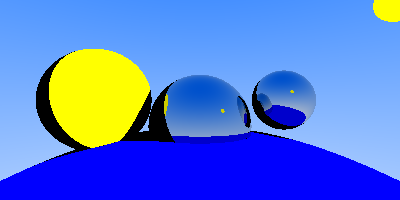
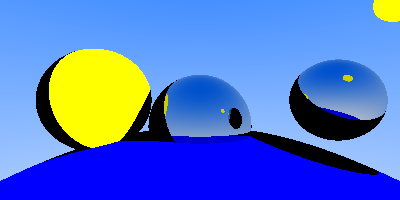
Reorganized the code structure a bit.

Changed region(s): [[0.57, 0.3, 0.99, 0.87]]

diff --git a/classes.py b/classes.py
@@ -1,6 +1,91 @@
 import math
 import numpy as np
 import helpers
+import random as rnd
+
+class Renderer():
+    def __init__(self, camera, scene, settings):
+        self.cam = camera
+        self.scene = scene
+        
+        self.hard_shadows = settings["hard_shadows"]
+        self.reflection = settings["reflection"]
+        self.lambert = settings["lambert"]
+
+    def render(self, num_rays=25):
+        pixel_array = self.cam.get_pixel_array()
+
+        # iterate over all pixels
+        for screen_y, world_y in enumerate(np.linspace(-1 * self.cam.screen_ratio, 1 * self.cam.screen_ratio, self.cam.y_res)):
+            for screen_x, world_x in enumerate(np.linspace(-1, 1, self.cam.x_res)):
+                col = Vec3(0,0,0)
+                
+                # shoot multiple rays within pixel
+                for _ in range(num_rays):
+                    if num_rays > 1:
+                        ray_x = world_x + rnd.uniform(0,1) * self.cam.x_step
+                        ray_y = world_y + rnd.uniform(0,1) * self.cam.y_step
+                    else:
+                        ray_x = world_x
+                        ray_y = world_y
+
+                    # shoot ray through pixel
+                    ray = Ray(Vec3(0,0,0), Vec3(ray_x, ray_y, -1))
+
+                    col += self.trace(ray)
+
+                # calculate the average pixel color
+                col /= num_rays
+                pixel_array[self.cam.y_res - 1 - screen_y][screen_x] = col.get_rgb()
+        return pixel_array
+
+    def trace(self, ray, num_bounces=0):
+        num_bounces += 1
+        if num_bounces > 4:
+            return helpers.color(ray)
+
+        # check for hits and get hits with lowest ray parameter
+        hit_result = ray.get_intersection(self.scene.scene_objects)
+
+        # if there was a hit draw it, else draw background
+        if hit_result:
+            hit_point = ray.get_point(hit_result[0])
+            hit_normal = hit_result[1].get_normal(hit_point)
+            ray_origin = hit_point + hit_normal * 0.001
+            light = self.scene.lights[0]
+
+            # hard shadows
+            if self.hard_shadows:
+                if self.get_hard_shadow(ray_origin, light):
+                    return Vec3(0,0,0)
+            
+            # reflection
+            if self.reflection and hit_result[1].reflect:
+                reflect_ray = self.get_reflected_ray(ray_origin, ray.direction, hit_normal)
+                return self.trace(reflect_ray, num_bounces=num_bounces) * 0.8
+
+            # return color of object
+            return hit_result[1].color_vector
+        elif ray.hit_sphere(self.scene.lights[0].render_sphere):
+            # draw the light
+            return Vec3(1,1,0)
+        else:
+            # draw the background
+            return helpers.color(ray)
+
+    def get_hard_shadow(self, shadow_origin, light):
+        shadow_direction = (light.position - shadow_origin).get_unit()
+        shadow_ray = Ray(shadow_origin, shadow_direction)
+        shadow_result = shadow_ray.get_intersection(self.scene.scene_objects, any_hit=True)
+
+        if shadow_result:
+            return Vec3(0,0,0)
+        return None
+
+    def get_reflected_ray(self, reflect_origin, incident_direction, hit_normal):
+        reflect_direction = incident_direction - hit_normal * 2 * hit_normal.dot(incident_direction)
+        return Ray(reflect_origin, reflect_direction)
+
 
 class Camera():
     def __init__(self, x_res, y_res):
@@ -41,47 +126,6 @@ class Ray():
             return min_t, min_object
         else:
             return None
-
-    def trace(self, scene, num_bounces=0):
-        num_bounces += 1
-        if num_bounces > 4:
-            return helpers.color(self)
-
-        # check for hits and get hits with lowest ray parameter
-        hit_result = self.get_intersection(scene.scene_objects)
-
-        # if there was a hit draw it, else draw background
-        if hit_result:
-            hit_point = self.get_point(hit_result[0])
-            hit_normal = hit_result[1].get_normal(hit_point)
-
-            # trace shadow ray
-            shadow_origin = hit_point + hit_normal * 0.001
-            shadow_direction = (scene.lights[0].position - shadow_origin).get_unit()
-            shadow_ray = Ray(shadow_origin, shadow_direction)
-            shadow_result = shadow_ray.get_intersection(scene.scene_objects, any_hit=True)
-            
-            # hit is in shadow
-            if shadow_result:
-                # col = shadow_result[1].color_vector
-                return Vec3(0,0,0)
-            
-            # hit surface is reflective
-            if hit_result[1].reflect:
-                reflect_origin = shadow_origin
-                reflect_direction = self.direction - hit_normal * 2 * hit_normal.dot(self.direction)
-                reflect_ray = Ray(reflect_origin, reflect_direction)
-                return reflect_ray.trace(scene, num_bounces=num_bounces) * 0.8
-                # return Vec3(1,1,1)
-
-            # return color of object
-            return hit_result[1].color_vector
-        elif self.hit_sphere(scene.lights[0].render_sphere):
-            # draw the light
-            return Vec3(1,1,0)
-        else:
-            # draw the background
-            return helpers.color(self)
 
     def hit_sphere(self, sphere, t_min=0, t_max=50):
         # notes:

diff --git a/rt.py b/rt.py
@@ -6,40 +6,11 @@ from classes import *
 from helpers import *
 import time
 
-def render(scene, cam=Camera(200, 100), num_rays=25):
-    pixel_array = cam.get_pixel_array()
-
-    # iterate over all pixels
-    for screen_y, world_y in enumerate(np.linspace(-1 * cam.screen_ratio, 1 * cam.screen_ratio, cam.y_res)):
-        for screen_x, world_x in enumerate(np.linspace(-1, 1, cam.x_res)):
-            col = Vec3(0,0,0)
-            
-            # shoot multiple rays within pixel
-            for i in range(num_rays):
-                if num_rays > 1:
-                    ray_x = world_x + rnd.uniform(0,1) * cam.x_step
-                    ray_y = world_y + rnd.uniform(0,1) * cam.y_step
-                else:
-                    ray_x = world_x
-                    ray_y = world_y
-
-                # shoot ray through pixel
-                ray = Ray(Vec3(0,0,0), Vec3(ray_x, ray_y, -1))
-
-                col += ray.trace(scene)
-
-            # calculate the average pixel color
-            col /= num_rays
-            pixel_array[cam.y_res - 1 - screen_y][screen_x] = col.get_rgb()
-    return pixel_array
-
 def main():
     total_start = time.time()
 
     # set resolution and create pixel array
-    camera = Camera(400, 200)
-
-    for i, angle in enumerate(np.linspace(0,math.pi*4,12)):
+    for i, angle in enumerate(np.linspace(0,math.pi*4,6)):
         start_time = time.time()
 
         red_x = math.cos(angle)
@@ -54,11 +25,19 @@ def main():
         # scene.add_scene_object(Sphere(Vec3(.75,0,-2), 0.3, Vec3(1,0,0))) # red sphere
         scene.add_scene_object(Sphere(Vec3(red_x,0,red_z), 0.3, Vec3(1,0,0), reflect=True)) # red sphere
 
+        camera = Camera(400, 200)
+        settings = {
+            "hard_shadows" : True,
+            "reflection" : True,
+            "lambert" : True
+        }
+        R = Renderer(camera, scene, settings)
+
         # save final image
-        image = Image.fromarray(render(scene, camera, num_rays=1))
+        image = Image.fromarray(R.render(num_rays=1))
         image.save(f"imgs/test{i:03}.png")
 
-        print(f"Frame {i} done in {time.time() - start_time:.3f} seconds")
+        print(f"Frame {i+1} done in {time.time() - start_time:.3f} seconds")
 
     print(f"Render completed in {time.time() - total_start:.3f} seconds!")
 
